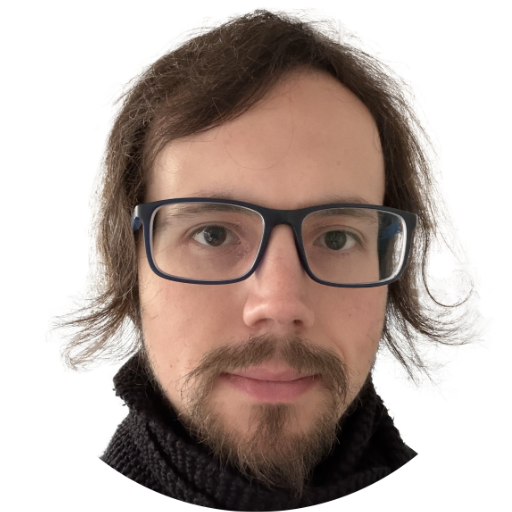
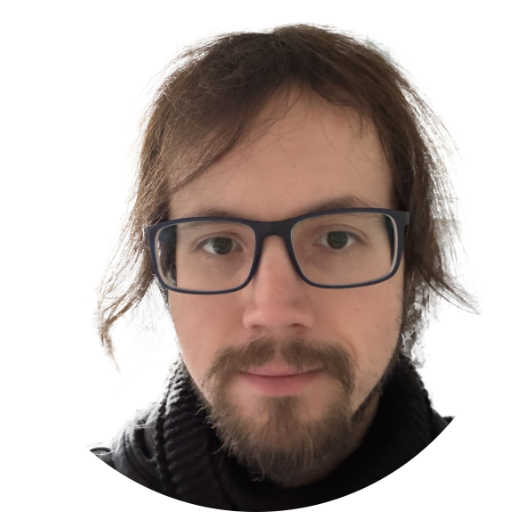
Updated profile photo and portfolio links

diff --git a/index.md b/index.md
@@ -11,9 +11,7 @@ PORTFOLIO<br>
 <a href="https://cosmicplayground.itch.io/the-uncertainty-principle" target="_blank" rel="noopener noreferrer"><b>The Uncertainty Principle (96 Hour Game Jam Game, Unreal Engine)</b></a><br>
 <a href="https://samuelbadman.itch.io/spy-league-training" target="_blank" rel="noopener noreferrer"><b>Spy League: Training (Competition game, Unreal Engine)</b></a><br>
 <a href="https://github.com/samuelbadman" target="_blank" rel="noopener noreferrer"><b>GitHub</b></a><br>
-<!--
 <a href="https://artstation.com/samuelbadman" target="_blank" rel="noopener noreferrer"><b>ArtStation</b></a><br>
--->
 <!--
 <a href="https://youtube.com/@samuel_badman" target="_blank" rel="noopener noreferrer"><b>YouTube</b></a>
 -->
